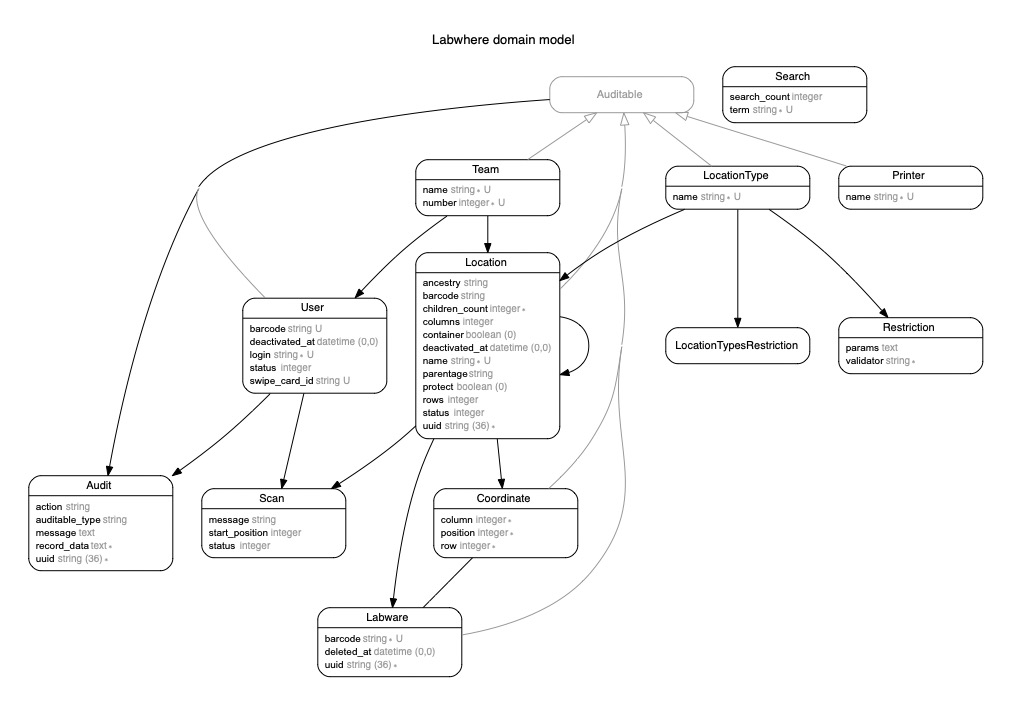
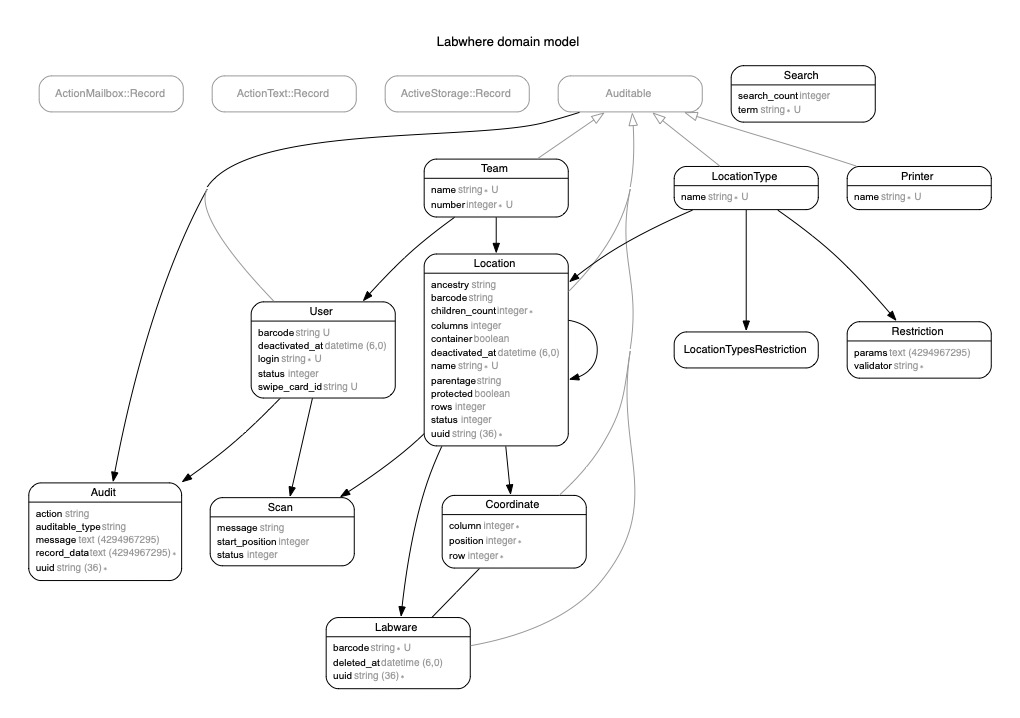
fix: update schema to reflect utf8mb4 charset and collation

diff --git a/db/schema.rb b/db/schema.rb
@@ -2,142 +2,140 @@
 # of editing this file, please use the migrations feature of Active Record to
 # incrementally modify your database, and then regenerate this schema definition.
 #
-# Note that this schema.rb definition is the authoritative source for your
-# database schema. If you need to create the application database on another
-# system, you should be using db:schema:load, not running all the migrations
-# from scratch. The latter is a flawed and unsustainable approach (the more migrations
-# you'll amass, the slower it'll run and the greater likelihood for issues).
+# This file is the source Rails uses to define your schema when running `bin/rails
+# db:schema:load`. When creating a new database, `bin/rails db:schema:load` tends to
+# be faster and is potentially less error prone than running all of your
+# migrations from scratch. Old migrations may fail to apply correctly if those
+# migrations use external dependencies or application code.
 #
 # It's strongly recommended that you check this file into your version control system.
 
-ActiveRecord::Schema.define(version: 2021_03_03_135315) do
-
-  create_table "audits", options: "ENGINE=InnoDB DEFAULT CHARSET=latin1", force: :cascade do |t|
-    t.string "auditable_type"
-    t.integer "auditable_id"
+ActiveRecord::Schema[8.1].define(version: 2026_06_02_000001) do
+  create_table "audits", charset: "utf8mb4", collation: "utf8mb4_unicode_ci", force: :cascade do |t|
     t.string "action"
-    t.text "record_data"
-    t.integer "user_id"
+    t.integer "auditable_id"
+    t.string "auditable_type"
     t.datetime "created_at", null: false
+    t.text "message", size: :long
+    t.text "record_data", size: :long
     t.datetime "updated_at", null: false
+    t.integer "user_id"
     t.string "uuid", limit: 36, null: false, comment: "Unique identifier for this Audit. Added to send to Events Warehouse."
-    t.text "message"
     t.index ["auditable_id", "auditable_type"], name: "index_audits_on_auditable_id_and_auditable_type"
     t.index ["auditable_type"], name: "index_audits_on_auditable_type"
     t.index ["user_id"], name: "index_audits_on_user_id"
   end
 
-  create_table "coordinates", options: "ENGINE=InnoDB DEFAULT CHARSET=latin1", force: :cascade do |t|
+  create_table "coordinates", charset: "utf8mb4", collation: "utf8mb4_unicode_ci", force: :cascade do |t|
+    t.integer "column"
+    t.datetime "created_at", null: false
+    t.integer "location_id"
     t.integer "position"
     t.integer "row"
-    t.integer "column"
-    t.integer "location_id"
-    t.datetime "created_at", null: false
     t.datetime "updated_at", null: false
     t.index ["location_id"], name: "index_coordinates_on_location_id"
   end
 
-  create_table "labwares", options: "ENGINE=InnoDB DEFAULT CHARSET=latin1", force: :cascade do |t|
+  create_table "labwares", charset: "utf8mb4", collation: "utf8mb4_unicode_ci", force: :cascade do |t|
     t.string "barcode"
+    t.integer "coordinate_id"
+    t.datetime "created_at", null: false
     t.datetime "deleted_at"
     t.integer "location_id"
-    t.datetime "created_at", null: false
     t.datetime "updated_at", null: false
-    t.integer "coordinate_id"
     t.string "uuid", limit: 36, null: false, comment: "Unique identifier for this Labware. Added to send to Events Warehouse. Doesn't match up with Sequencescape or any other app."
     t.index ["barcode"], name: "index_labwares_on_barcode", unique: true
     t.index ["coordinate_id"], name: "index_labwares_on_coordinate_id"
     t.index ["location_id"], name: "index_labwares_on_location_id"
   end
 
-  create_table "location_types", options: "ENGINE=InnoDB DEFAULT CHARSET=latin1", force: :cascade do |t|
-    t.string "name"
+  create_table "location_types", charset: "utf8mb4", collation: "utf8mb4_unicode_ci", force: :cascade do |t|
     t.datetime "created_at", null: false
+    t.string "name"
     t.datetime "updated_at", null: false
   end
 
-  create_table "location_types_restrictions", id: false, options: "ENGINE=InnoDB DEFAULT CHARSET=latin1", force: :cascade do |t|
+  create_table "location_types_restrictions", id: false, charset: "utf8mb4", collation: "utf8mb4_unicode_ci", force: :cascade do |t|
     t.integer "location_type_id", null: false
     t.integer "restriction_id", null: false
     t.index ["restriction_id", "location_type_id"], name: "restriction_id_and_location_type_id_index", unique: true
   end
 
-  create_table "locations", options: "ENGINE=InnoDB DEFAULT CHARSET=latin1", force: :cascade do |t|
-    t.string "name"
-    t.string "barcode"
-    t.string "parentage"
-    t.string "type"
-    t.integer "internal_parent_id"
-    t.boolean "container", default: true
-    t.integer "status", default: 0
-    t.integer "rows", default: 0
-    t.integer "columns", default: 0
-    t.datetime "deactivated_at"
-    t.integer "location_type_id"
-    t.datetime "created_at", null: false
-    t.datetime "updated_at", null: false
-    t.integer "team_id"
+  create_table "locations", charset: "utf8mb4", collation: "utf8mb4_unicode_ci", force: :cascade do |t|
     t.string "ancestry"
+    t.string "barcode"
     t.integer "children_count", default: 0, null: false
-    t.string "uuid", limit: 36, null: false, comment: "Unique identifier for this Location. Added to send to Events Warehouse."
+    t.integer "columns", default: 0
+    t.boolean "container", default: true
+    t.datetime "created_at", null: false
+    t.datetime "deactivated_at"
+    t.integer "internal_parent_id"
+    t.integer "location_type_id"
+    t.string "name"
+    t.string "parentage"
     t.boolean "protected", default: false
+    t.integer "rows", default: 0
+    t.integer "status", default: 0
+    t.integer "team_id"
+    t.string "type"
+    t.datetime "updated_at", null: false
+    t.string "uuid", limit: 36, null: false, comment: "Unique identifier for this Location. Added to send to Events Warehouse."
     t.index ["ancestry"], name: "index_locations_on_ancestry"
     t.index ["barcode"], name: "index_locations_on_barcode", unique: true
     t.index ["location_type_id"], name: "index_locations_on_location_type_id"
     t.index ["team_id"], name: "index_locations_on_team_id"
   end
 
-  create_table "printers", options: "ENGINE=InnoDB DEFAULT CHARSET=latin1", force: :cascade do |t|
-    t.string "name"
+  create_table "printers", charset: "utf8mb4", collation: "utf8mb4_unicode_ci", force: :cascade do |t|
     t.datetime "created_at", null: false
+    t.string "name"
     t.datetime "updated_at", null: false
   end
 
-  create_table "restrictions", options: "ENGINE=InnoDB DEFAULT CHARSET=latin1", force: :cascade do |t|
+  create_table "restrictions", charset: "utf8mb4", collation: "utf8mb4_unicode_ci", force: :cascade do |t|
+    t.integer "location_type_id"
+    t.text "params", size: :long
     t.string "type"
     t.string "validator"
-    t.text "params"
-    t.integer "location_type_id"
     t.index ["location_type_id"], name: "index_restrictions_on_location_type_id"
   end
 
-  create_table "scans", options: "ENGINE=InnoDB DEFAULT CHARSET=latin1", force: :cascade do |t|
-    t.integer "status", default: 0
-    t.string "message"
-    t.integer "location_id"
-    t.integer "user_id"
+  create_table "scans", charset: "utf8mb4", collation: "utf8mb4_unicode_ci", force: :cascade do |t|
     t.datetime "created_at", null: false
-    t.datetime "updated_at", null: false
+    t.integer "location_id"
+    t.string "message"
     t.integer "start_position"
+    t.integer "status", default: 0
+    t.datetime "updated_at", null: false
+    t.integer "user_id"
     t.index ["location_id"], name: "index_scans_on_location_id"
     t.index ["user_id"], name: "index_scans_on_user_id"
   end
 
-  create_table "searches", options: "ENGINE=InnoDB DEFAULT CHARSET=latin1", force: :cascade do |t|
-    t.string "term"
-    t.integer "search_count", default: 0
+  create_table "searches", charset: "utf8mb4", collation: "utf8mb4_unicode_ci", force: :cascade do |t|
     t.datetime "created_at", null: false
+    t.integer "search_count", default: 0
+    t.string "term"
     t.datetime "updated_at", null: false
   end
 
-  create_table "teams", options: "ENGINE=InnoDB DEFAULT CHARSET=latin1", force: :cascade do |t|
+  create_table "teams", charset: "utf8mb4", collation: "utf8mb4_unicode_ci", force: :cascade do |t|
+    t.datetime "created_at", null: false
     t.string "name"
     t.integer "number"
-    t.datetime "created_at", null: false
     t.datetime "updated_at", null: false
   end
 
-  create_table "users", options: "ENGINE=InnoDB DEFAULT CHARSET=latin1", force: :cascade do |t|
-    t.string "login"
-    t.string "swipe_card_id"
+  create_table "users", charset: "utf8mb4", collation: "utf8mb4_unicode_ci", force: :cascade do |t|
     t.string "barcode"
-    t.string "type"
-    t.integer "status", default: 0
-    t.datetime "deactivated_at"
-    t.integer "team_id"
     t.datetime "created_at", null: false
+    t.datetime "deactivated_at"
+    t.string "login"
+    t.integer "status", default: 0
+    t.string "swipe_card_id"
+    t.integer "team_id"
+    t.string "type"
     t.datetime "updated_at", null: false
     t.index ["team_id"], name: "index_users_on_team_id"
   end
-
 end
